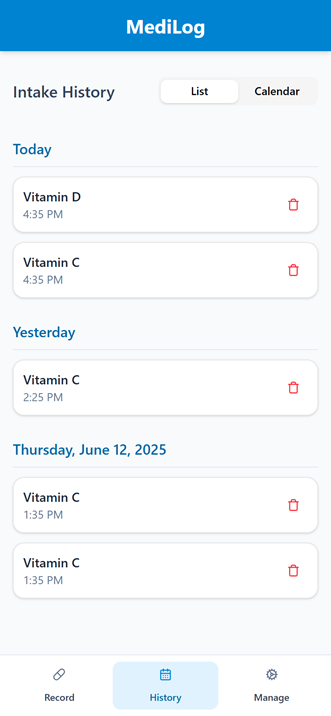
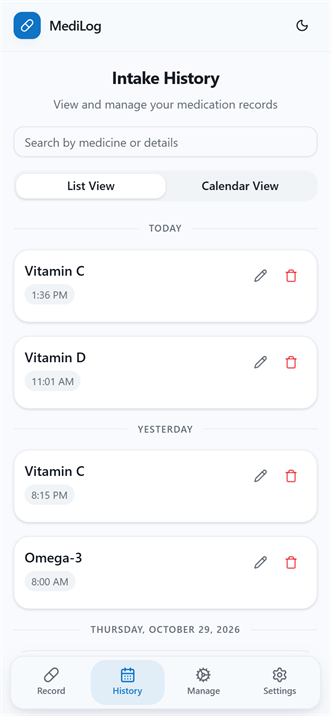
docs: refresh README screenshots and usage steps
Screenshots are re-taken against the current UI, and the usage steps now
match it: the tap-to-log Record screen with its time chips, History
search, the undo toast, drag-to-reorder in Manage, and the Settings tab.

Also adds the 2.0.3 release notes covering the calendar marker fix and
this documentation refresh.

diff --git a/README.md b/README.md
@@ -46,32 +46,38 @@ To get the project up and running on your local machine, follow these steps:
 
 ## 🚀 Usage
 
-Upon launching the application, you'll be greeted with the "Record Intake" view.
+Upon launching the application, you'll be greeted with the "Today" view.
 
 1.  **Record View**:
     - If no medicines are added yet, you'll be prompted to navigate to the "Manage" section to add some.
-    - Select the date and time for the intake.
-    - Choose a medicine from your list.
-    - Click "Record Intake" to save the entry. A success message will briefly appear.
+    - Pick a time chip (`Now`, `15m`, `30m`, `1h`, `2h`) to set when the dose was taken.
+    - Tap a medicine tile to log it right away. A success message will briefly appear, and the tile shows a green check plus a "N of M taken · X-day streak" summary.
+    - Use "Custom dose…" to backfill a dose with an exact date, time, and details.
+    - The "Recent" list below shows your latest doses across all days.
 
 2.  **History View**:
     - Navigate to the "History" tab using the bottom navigation.
-    - View your intake records in a chronological list.
-    - Switch to "Calendar" view to see which days have recorded intakes (highlighted in green).
+    - View your intake records in a chronological list, or search them by medicine or details.
+    - Switch to "Calendar View" to see which days have recorded intakes (marked with a green dot).
     - Click on a specific day in the calendar to see records for that day.
-    - Use the trash icon next to any record to delete it. A confirmation dialog will appear.
+    - Use the pencil icon to edit a record, or the trash icon to delete it. Deleted records can be restored from the undo toast.
 
 3.  **Manage View**:
     - Navigate to the "Manage" tab using the bottom navigation.
     - Use the "Add New Medicine/Supplement" form to add new items to your list.
-    - Your existing medicines are displayed below. Use the trash icon next to a medicine to delete it from your list. Note that deleting a medicine here does not remove its past intake records.
+    - Your existing medicines are displayed below. Drag the handle to reorder them, or use the trash icon next to a medicine to delete it from your list. Note that deleting a medicine here does not remove its past intake records.
+
+4.  **Settings View**:
+    - Navigate to the "Settings" tab using the bottom navigation.
+    - Switch between the Light, Dark, and System themes, or toggle dark mode from the header.
+    - Export your data to a JSON file, import it back, or clear everything.
 
 ## 📸 Screenshots
 
 Here are some screenshots of MediLog running on a mobile device:
 
 <div style="display: flex; justify-content: center; gap: 15px; margin-top: 20px; overflow-x: auto; padding-bottom: 10px;">
-    <img src="assets/images/screenshot1.png" alt="Screenshot of the Record Intake view" style="width: auto; max-width: 250px; border-radius: 8px; box-shadow: 0 4px 8px rgba(0,0,0,0.1);">
+    <img src="assets/images/screenshot1.png" alt="Screenshot of the Today view with the tap-to-log medicine tiles" style="width: auto; max-width: 250px; border-radius: 8px; box-shadow: 0 4px 8px rgba(0,0,0,0.1);">
     <img src="assets/images/screenshot2.png" alt="Screenshot of the History list view" style="width: auto; max-width: 250px; border-radius: 8px; box-shadow: 0 4px 8px rgba(0,0,0,0.1);">
     <img src="assets/images/screenshot3.png" alt="Screenshot of the History Calendar view" style="width: auto; max-width: 250px; border-radius: 8px; box-shadow: 0 4px 8px rgba(0,0,0,0.1);">
     <img src="assets/images/screenshot4.png" alt="Screenshot of the Manage Medicines view" style="width: auto; max-width: 250px; border-radius: 8px; box-shadow: 0 4px 8px rgba(0,0,0,0.1);">

diff --git a/CHANGELOG.md b/CHANGELOG.md
@@ -5,6 +5,16 @@ All notable changes to MediLog will be documented in this file.
 The format is based on [Keep a Changelog](https://keepachangelog.com/en/1.0.0/),
 and this project adheres to [Semantic Versioning](https://semver.org/spec/v2.0.0.html).
 
+## [2.0.3] - 2026-10-31
+
+### 🐛 Fixed
+
+- The History calendar marks days that have records with a green dot again. The 2.0.0 revamp moved the marker from an injected `<style>` block to Tailwind's `data-[highlighted]:` variant, but react-day-picker v9 never sets that attribute, so the marker silently stopped rendering. The styling now lives in `modifiersClassNames`, the API v9 actually supports, and the selected-day and today variants use v9's `data-selected` / `data-today` attributes
+
+### 📚 Documentation
+
+- The README screenshots were re-taken against the current UI and the usage steps were rewritten to match it: the tap-to-log Record screen with its time chips and "Custom dose…" dialog, the "N of M taken · X-day streak" summary, the Recent list, the History search field, the edit/undo-toast flow, drag-to-reorder in Manage, and the Settings tab
+
 ## [2.0.2] - 2026-10-30
 
 ### 🐛 Fixed
